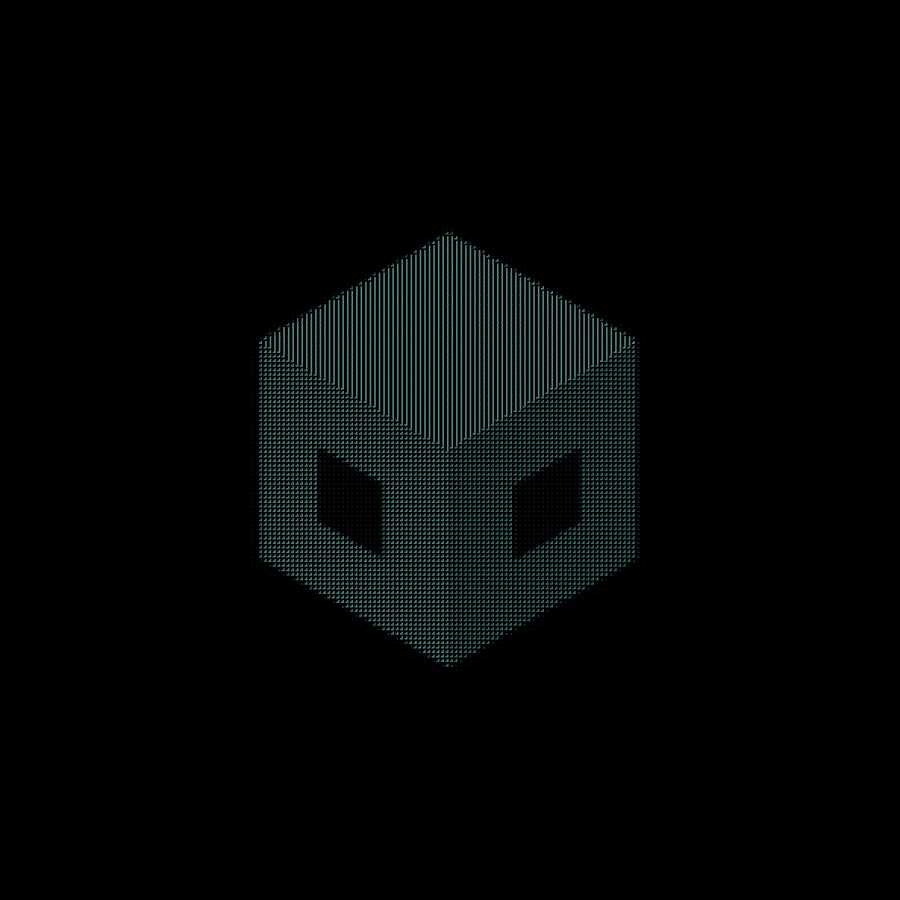
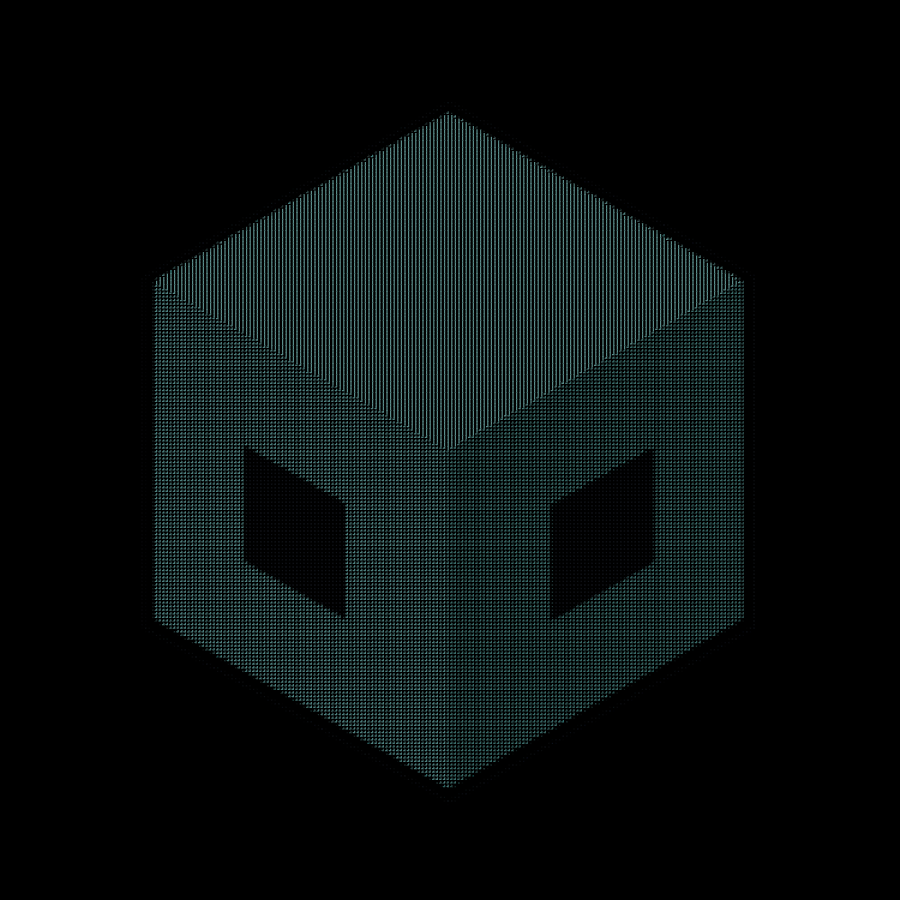
Disclose ZML (was stealth `inference.txt`) (#74)
ZML publicly launched its LLMD inference server (TechCrunch, 2026-07-08),
so promote the stealth `inference` entry to a full public company card.

- lib/companies.ts: replace the stealth stub with ZML's real details
  (founder Steeve Morin, Paris, Apache-2.0/Zig, GitHub/docs/Discord, and
  the docker:zmlai/llmd package). Slug becomes `zml` → `zml.txt` and
  /companies/zml/.
- Add a redirect stub at /companies/inference/ so the old teased URL
  301s to /companies/zml/ (static export can't emit a real 3xx).
- app/page.tsx: portfolio count 5→6, three announced / three stealth.
- public/llms.txt: reconcile the portfolio list (add Macrodata, agent-mux,
  backup; swap inference→ZML) and fix the active-commitments count.
- public/companies/zml.png plus refreshed macrodata.png / uma.png logos.

Changed region(s): [[0.1556, 0.1244, 0.84, 0.8711]]

diff --git a/lib/companies.ts b/lib/companies.ts
@@ -343,15 +343,29 @@ export const COMPANIES: readonly Company[] = [
       'that in AI infrastructure, the openness of the toolchain and the strength of the developer community matter as much as the hardware itself.',
   },
   {
-    // Stealth Fund I investment — file teases the domain, identity disclosed
-    // at launch. CompanyCard renders just `inference.txt: Permission denied`;
-    // no Organization JSON-LD is emitted for stealth slugs.
-    slug: 'inference',
-    company: 'Stealth',
-    oneLiner: 'AI inference stack',
+    // Disclosed at launch (TechCrunch, 2026-07-08). Slug is the company name
+    // now that it's public (`zml.txt`, /companies/zml/); the old stealth
+    // /companies/inference/ path 301s here via a redirect stub route.
+    slug: 'zml',
+    company: 'ZML',
+    oneLiner: 'Production inference stack decoupling AI from proprietary hardware',
     folder: 'active',
-    avatar: '', // unused for stealth
-    stealth: true,
+    avatar: '/companies/zml.png',
+    website: 'https://zml.ai',
+    github: 'https://github.com/zml/zml',
+    docs: 'https://docs.zml.ai',
+    discord: 'https://discord.gg/6y72SN2E7H',
+    package: 'docker:zmlai/llmd',
+    stage: 'Seed',
+    location: 'Paris',
+    founders: [{ name: 'Steeve Morin', short: 'Steeve' }],
+    firstCommit: '2024-09-17',
+    license: 'Apache-2.0',
+    language: 'Zig',
+    about:
+      'ZML is a production inference stack that decouples AI workloads from proprietary hardware. From a single codebase it compiles large language models — Llama, Gemma, Qwen, Mistral — to run at peak speed across NVIDIA, AMD, Google TPU, Intel, and Apple Metal, letting teams mix accelerators, break vendor lock-in, and cut inference cost and energy. Its LLMD inference server, built on Zig, MLIR, and OpenXLA, launched free in 2026.',
+    seoDescription:
+      'Production inference stack that runs LLMs at peak speed across NVIDIA, AMD, TPU, Intel, and Apple chips. >commit Fund I.',
   },
   {
     slug: 'specs',

diff --git a/app/(chrome)/(tabs)/companies/inference/page.tsx b/app/(chrome)/(tabs)/companies/inference/page.tsx
@@ -1,0 +1,39 @@
+import { SITE_URL } from '@/lib/structured-data';
+import type { Metadata } from 'next';
+
+// `inference` was the stealth slug for ZML (disclosed 2026-07-08). The company
+// now lives at /companies/zml/; this stub keeps the old teased URL working.
+// A static export can't emit a real 3xx, so we redirect client-side (and via
+// <meta refresh> for no-JS) and hand crawlers a canonical pointing at /zml/.
+const TARGET_PATH = '/companies/zml/';
+const TARGET = `${SITE_URL}${TARGET_PATH}`;
+
+export const metadata: Metadata = {
+  title: 'ZML',
+  description: 'ZML — this page has moved to /companies/zml/.',
+  robots: { index: false, follow: true },
+  alternates: { canonical: TARGET },
+};
+
+export default function InferenceRedirectPage() {
+  return (
+    <main>
+      <script
+        // biome-ignore lint/security/noDangerouslySetInnerHtml: static redirect snippet, no user input
+        dangerouslySetInnerHTML={{
+          __html: `window.location.replace(${JSON.stringify(TARGET_PATH)});`,
+        }}
+      />
+      <noscript>
+        <meta httpEquiv="refresh" content={`0;url=${TARGET_PATH}`} />
+      </noscript>
+      <p>
+        ZML has moved to{' '}
+        <a href={TARGET_PATH} className="blue">
+          /companies/zml/
+        </a>
+        .
+      </p>
+    </main>
+  );
+}

diff --git a/app/page.tsx b/app/page.tsx
@@ -51,8 +51,9 @@ export default function HomePage() {
           <strong>Abel Samot</strong> (Partner), and <strong>Thomas Saudemont</strong> (Tech Lead).
         </p>
         <p>
-          Active Fund I commitments to date: 5 — two announced (UMA — humanoid robotics, Macrodata
-          Labs — training-data infrastructure), three stealth (disclosure pending).
+          Active Fund I commitments to date: 6 — three announced (UMA — humanoid robotics, Macrodata
+          Labs — training-data infrastructure, ZML — AI inference), three stealth (disclosure
+          pending).
         </p>
         <p>
           Reach out at <a href="mailto:hey@commit.fund">hey@commit.fund</a>. Browse the full site at{' '}
